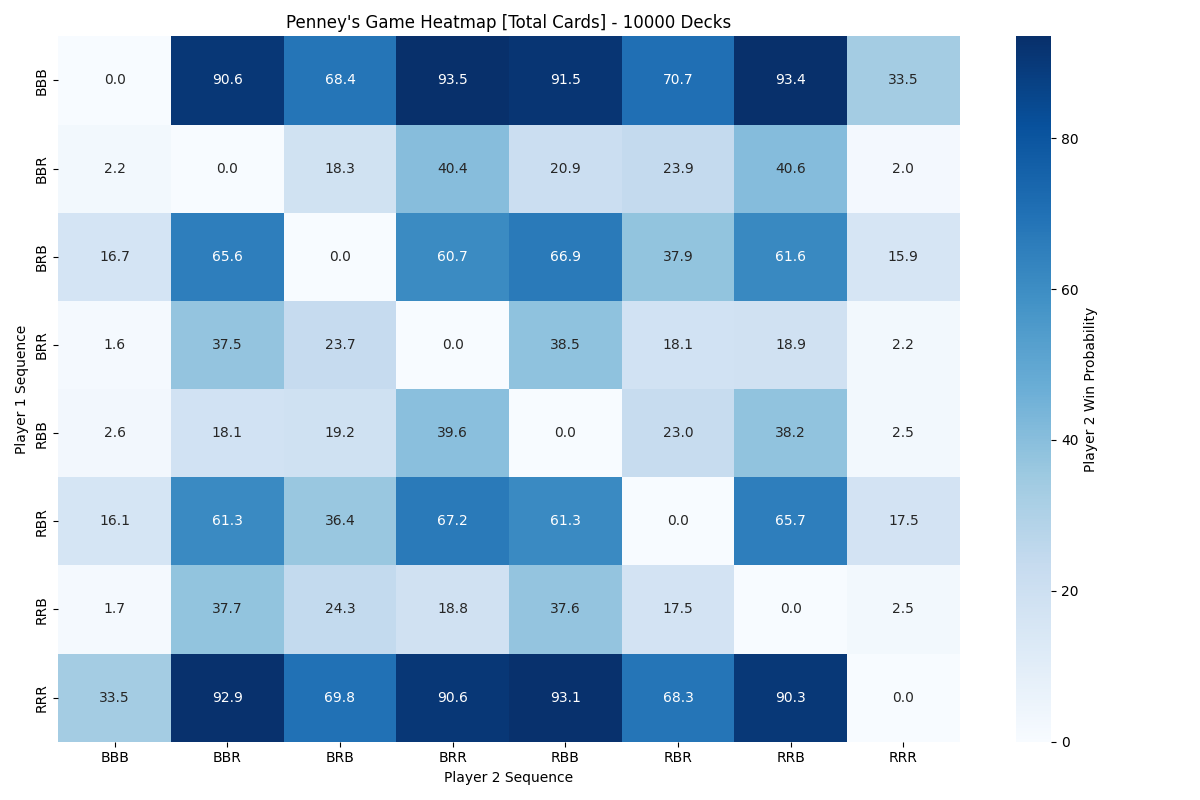
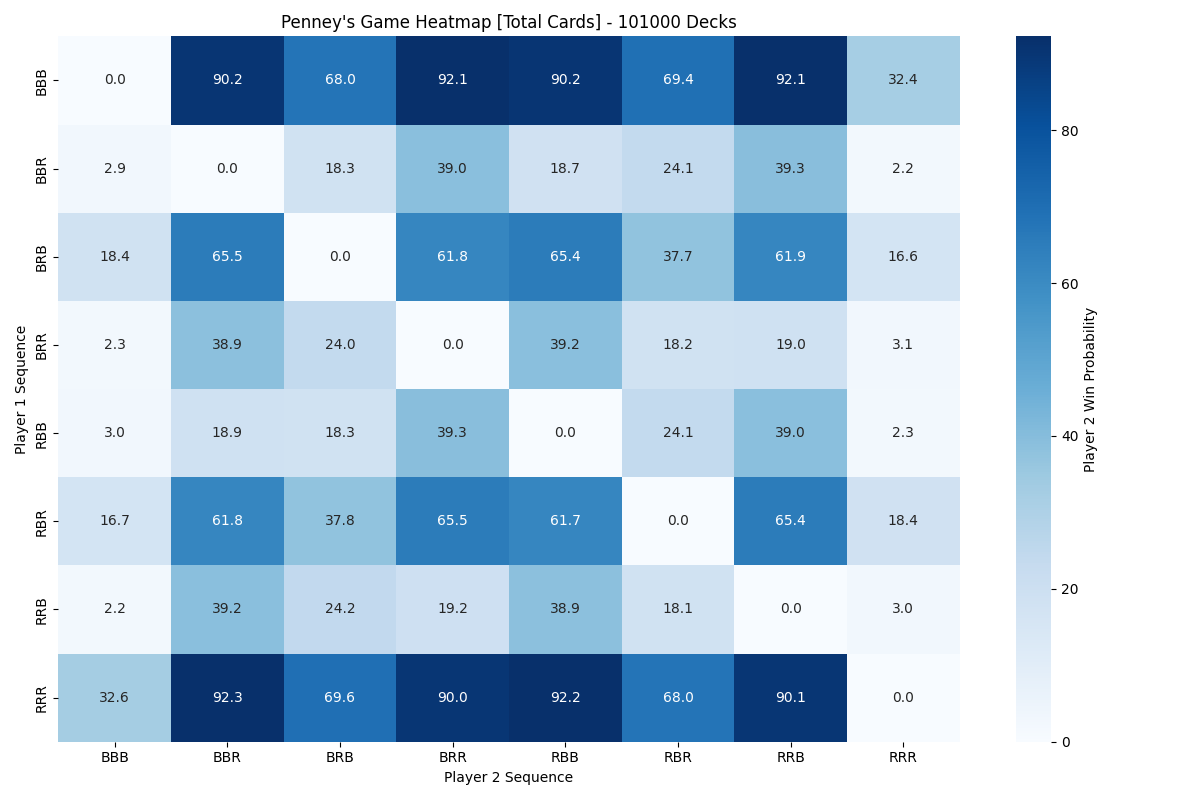
update

diff --git a/src/processing.py b/src/processing.py
@@ -1,13 +1,13 @@
 import numpy as np
-from datagen import get_decks 
+from datagen import get_decks
 
-HALF_DECK_SIZE = 26  
+HALF_DECK_SIZE = 26
 
 def sequence_to_binary(sequence: str) -> np.ndarray:
     """
     Converts the sequence into binary 0's & 1's
 
-    Args: 
+    Args:
         sequence: The sequence containing 'B' & 'R'
 
     Returns:
@@ -18,92 +18,93 @@ def sequence_to_binary(sequence: str) -> np.ndarray:
 def find_sequence(deck: np.ndarray, sequence: np.ndarray) -> int:
     """
     Find the sequence's first appearance in the deck
-    
+
     Args:
         deck: The shuffled deck of cards
         seq: The sequence we're looking for
-    
+
     Returns:
         The position of i, where the sequence starts in the deck
     """
     for i in range(len(deck) - len(sequence) + 1):
         if np.array_equal(deck[i:i+len(sequence)], sequence):
             return i
-    return float('NaN')   # If sequence is not found
+    return len(deck)   # If sequence is not found, return the end of the deck
 
 def count_occurrences(deck: np.ndarray, sequence: np.ndarray) -> int:
     """
     Finds the number of times a sequence occurs in the shuffled deck (non-overlapping)
-    
+
     Args:
         deck: The shuffled deck of cards
         seq: The sequence we're looking for
-    
+
     Returns:
-        The total count of sequence occurrences 
+        The total count of sequence occurrences
     """
     count = 0
     i = 0
     while i <= len(deck) - len(sequence):
         if np.array_equal(deck[i:i+len(sequence)], sequence): # Checking if the sequence is found
             count += 1
-            i += len(sequence) 
+            i += len(sequence)
         else:
             i += 1
     return count
 
-def penneys_game(p1_sequence: str, p2_sequence: str, num_trials: int = 100000, n_decks: int = 1) -> dict:
+def penneys_game(p1_sequence: str, p2_sequence: str, n_decks: int) -> dict:
     """
-    Player 1 & player 2 choose sequences of 3 cards that are compared based on tricks/totals scoring.
-    
+    Player 1 & player 2 choose sequences of 3 cards that are compared based on tricks/totals scoring
+
     Args:
         p1_sequence: First player's sequence
         p2_sequence: Second player's sequence
-        num_trials: The number of simulations
         n_decks: The number of shuffled decks
-    
+
     Returns:
-        A dictionary with player 2's wins/losses/draws
+        A dictionary with player 2's win/loss/draw probabilities
     """
+
     # First convert the sequences to binary
     p1_seq_binary = sequence_to_binary(p1_sequence)
     p2_seq_binary = sequence_to_binary(p2_sequence)
-    
+
     p1_wins_trick, p2_wins_trick, draws_trick = 0, 0, 0
     p1_wins_totals, p2_wins_totals, draws_totals = 0, 0, 0
-    
-    for i in range(num_trials):
+
+    for i in range(n_decks): 
         # Generate shuffled decks for each trial
-        decks = get_decks(n_decks=n_decks, seed=i) 
-        
+        decks = get_decks(n_decks=1, seed=i)
+
         # The first deck from the shuffled decks
         deck = decks[0]
-        
+
         # Find the positions of the sequences for tricks-based scoring
         p1_pos = find_sequence(deck, p1_seq_binary)
         p2_pos = find_sequence(deck, p2_seq_binary)
-        
-        # Determine the results
+
+        # Determine the results for tricks
         if p1_pos < p2_pos:
             p1_wins_trick += 1
         elif p2_pos < p1_pos:
             p2_wins_trick += 1
         else:
             draws_trick += 1
-        
+
         # Count the occurrences of each player's sequence for totals-based scoring
         p1_occurrences = count_occurrences(deck, p1_seq_binary)
         p2_occurrences = count_occurrences(deck, p2_seq_binary)
-        
-        # Results
+
+        # Results for totals
         if p1_occurrences > p2_occurrences:
             p1_wins_totals += 1
         elif p2_occurrences > p1_occurrences:
             p2_wins_totals += 1
         else:
             draws_totals += 1
-    
-    total_trials = num_trials
+
+    total_trials = n_decks 
+
     return {
         'tricks': {
             'win': p2_wins_trick / total_trials,
@@ -121,16 +122,15 @@ def penneys_game(p1_sequence: str, p2_sequence: str, num_trials: int = 100000, n
         }
     }
 
-def calculate_win_probabilities(num_trials: int = 100000, n_decks: int = 1) -> dict:
+def calculate_win_probabilities(n_decks: int) -> dict:
     """
     Calculates player 2's probabilities of winning/lossing/drawing
 
     Args:
-        num_trials: The number of simulations
         n_decks: The number of shuffled decks
 
     Returns:
-        A dictionary of win/loss/draw probabilities for each pair
+        A dictionary of win/loss/draw probabilities for each pair of sequences
     """
     # Define all possible sequences of length 3 ('B' or 'R')
     sequence_list = ['BBB', 'BBR', 'BRB', 'BRR', 'RBB', 'RBR', 'RRB', 'RRR']
@@ -139,14 +139,13 @@ def calculate_win_probabilities(num_trials: int = 100000, n_decks: int = 1) -> d
     probabilities = {}
     for p1_seq in sequence_list:
         for p2_seq in sequence_list:
-            probabilities[(p1_seq, p2_seq)] = penneys_game(p1_seq, p2_seq, num_trials=num_trials, n_decks=n_decks)
+            probabilities[(p1_seq, p2_seq)] = penneys_game(p1_seq, p2_seq, n_decks=n_decks)
 
     return probabilities
 
 if __name__ == '__main__':
-    num_trials = 1000  # Number of simulations
-    n_decks = 1 # One standard 52-card deck
-    results = calculate_win_probabilities(num_trials, n_decks)
+    n_decks = 100_000  # The game will be played 100,000 times
+    results = calculate_win_probabilities(n_decks)
 
     for (p1_seq, p2_seq), probs in results.items():
         print(f"Player 1 {p1_seq} vs Player 2 {p2_seq}:")

diff --git a/src/visualization.py b/src/visualization.py
@@ -1,12 +1,12 @@
 import matplotlib.pyplot as plt
 import seaborn as sns
 import numpy as np
-from datagen import store_decks
+from datagen import augmenting_decks
 from processing import calculate_win_probabilities
 
 def all_possible_sequences(length: int) -> list:
     """
-    Generates all possibles sequences of length 3 (total of 8)
+    Generates all possible sequences of length 3 (total of 8)
 
     Args:
         length (int): The length of the sequence
@@ -14,7 +14,6 @@ def all_possible_sequences(length: int) -> list:
     Returns: 
         A list of all possible sequences
     """
-    # All possible sequences, 2^3 = 8
     return [list(format(i, f'0{length}b')) for i in range(2**length)]
 
 def create_heatmaps(heatmap_total, heatmap_tricks, output_file, n_decks) -> None:
@@ -24,7 +23,6 @@ def create_heatmaps(heatmap_total, heatmap_tricks, output_file, n_decks) -> None
     Args:
         heatmap_total (np.ndarray): The heatmap for total cards win probabilities
         heatmap_tricks (np.ndarray): The heatmap for tricks win probabilities
-        all_seq (list): All possible sequences
         output_file (str): The name of the output file
         n_decks (int): The number of decks
 
@@ -32,8 +30,9 @@ def create_heatmaps(heatmap_total, heatmap_tricks, output_file, n_decks) -> None
         None
     """
     ax_labels = ['BBB', 'BBR', 'BRB', 'BRR', 'RBB', 'RBR', 'RRB', 'RRR']
+    
     plt.figure(figsize=(12, 8))
-    sns.heatmap(heatmap_total*100, annot=True, fmt=".1f", cmap="Blues",
+    sns.heatmap(heatmap_total * 100, annot=True, fmt=".1f", cmap="Blues",
                 xticklabels=ax_labels, yticklabels=ax_labels,
                 cbar_kws={'label': 'Player 2 Win Probability'})
     plt.title(f"Penney's Game Heatmap [Total Cards] - {n_decks} Decks")
@@ -45,7 +44,7 @@ def create_heatmaps(heatmap_total, heatmap_tricks, output_file, n_decks) -> None
     plt.clf()
 
     plt.figure(figsize=(12, 8))
-    sns.heatmap(heatmap_tricks*100, annot=True, fmt=".1f", cmap="Blues",
+    sns.heatmap(heatmap_tricks * 100, annot=True, fmt=".1f", cmap="Blues",
                 xticklabels=ax_labels, yticklabels=ax_labels,
                 cbar_kws={'label': 'Player 2 Win Probability'})
     plt.title(f"Penney's Game Heatmap [Tricks] - {n_decks} Decks")
@@ -56,30 +55,34 @@ def create_heatmaps(heatmap_total, heatmap_tricks, output_file, n_decks) -> None
     print(f"Saved tricks heatmap as tricks_{output_file}.png")
     plt.clf()
 
-def main() -> None:
-    seed = 42
-    n_decks = 10000 
-    augment_decks = 0  # Number of additional decks to add if desired
-    augment = False 
+def fill_heatmaps(seed: int, n_decks: int, augment_decks: int, output_file: str = 'penney_heatmaps') -> None:
+    """
+    Generate the heatmaps for Penney's game
 
-    # Generate and/or augment decks
-    decks, seed = store_decks(n_decks + augment_decks, seed, augment=augment)  # This will augment the decks
-    output_file = 'penney_heatmaps'
+    Args:
+        seed (int): The seed for generating decks
+        n_decks (int): The number of decks
+        augment_decks (int): The number of additional decks to augment
+        output_file (str): The base name for the file containing the heatmaps
+
+    Returns:
+        None
+    """
+    # Augment decks using datagen.py
+    augment = augment_decks > 0
+    augmenting_decks(n_decks=n_decks, augment_decks=augment_decks, seed=seed, augment=augment)
     seq_length = 3
-
     all_sequences = all_possible_sequences(seq_length)
 
     # Initialize the heatmaps with 2D arrays
     heatmap_total = np.zeros((len(all_sequences), len(all_sequences)))  # Total cards heatmap
     heatmap_tricks = np.zeros((len(all_sequences), len(all_sequences)))  # Tricks heatmap
 
-    results = calculate_win_probabilities(num_trials=1000, n_decks=n_decks + augment_decks)
+    results = calculate_win_probabilities(n_decks=n_decks + augment_decks)
 
     # Populate the heatmaps
     for i, seq1 in enumerate(all_sequences):
         for j, seq2 in enumerate(all_sequences):
-
-            # Convert binary sequences to 'B' and 'R'
             p1_seq = ''.join(['B' if binary == '0' else 'R' for binary in seq1])
             p2_seq = ''.join(['B' if binary == '0' else 'R' for binary in seq2])
             
@@ -101,6 +104,3 @@ def main() -> None:
 
     # Create and save the heatmaps
     create_heatmaps(heatmap_total, heatmap_tricks, output_file, n_decks + augment_decks)
-
-if __name__ == "__main__":
-    main()

diff --git a/src/datagen.py b/src/datagen.py
@@ -41,28 +41,45 @@ def store_decks(n_decks: int, seed: int, filename: str = 'penneydecks.npy', augm
         where each row is a shuffled deck
         seed (int): The seed used to generate the shuffled decks
     """
-   # Joining the paths of filename & PATH_DATA directory
     decks_file = os.path.join(PATH_DATA, filename)
     os.makedirs(PATH_DATA, exist_ok=True)
 
-    # Check if penneydecks.npy exists
     if os.path.exists(decks_file):
-        data = np.load(decks_file, allow_pickle = True).item()
-        # Return the decks and seed from file
+        data = np.load(decks_file, allow_pickle=True).item()
         existing_decks = data['decks']
         current_seed = data['seed']
     
-        if augment: # If choosing to augment the decks
-            additional_decks = get_decks(n_decks, seed = current_seed)
+        if augment:
+            additional_decks = get_decks(n_decks, seed=current_seed)
             updated_decks = np.concatenate((existing_decks, additional_decks), axis=0)
             data['decks'] = updated_decks 
-            np.save(decks_file, data)  # Save the updated decks
+            np.save(decks_file, data)
             return updated_decks, current_seed
         else:
             return existing_decks, current_seed
     else:
-        # If it doesn't exist, create the decks & seed using get_decks
         decks = get_decks(n_decks, seed=seed)
         data = {'decks': decks, 'seed': seed}
         np.save(decks_file, data)
         return decks, seed
+
+def augmenting_decks(n_decks: int, augment_decks: int, seed: int, augment: bool) -> tuple:
+    """
+    Handles the logic for augmenting decks if required, moving logic from visualization.py
+    to datagen.py.
+
+    Args:
+        n_decks (int): The number of decks 
+        augment_decks (int): The number of additional decks 
+        seed (int): The random seed
+        augment (bool): Whether augementing 
+
+    Returns:
+        decks (np.ndarray): The augmented decks
+        seed (int): The seed used
+    """
+    if augment and augment_decks > 0:
+        decks, seed = store_decks(n_decks + augment_decks, seed, augment=True)
+    else:
+        decks, seed = store_decks(n_decks, seed, augment=False)
+    return decks, seed

diff --git a/README.md b/README.md
@@ -1,16 +1,21 @@
 # Project Penney: Overview
 
-Penney's Game, named after Walter Penney, involves two players choosing a sequence of three cards - either black or red. There are two methods of scoring, one based on tricks (whoever's sequence appears first) and the other based on total cards (total number of appearences). 
-
-The probabilities of player 2 winnning for all 56 possible games are presented in two heatmaps. To augment the existing data, the 'augment' boolean can be set to True and 'augment_decks' can be assigned a quantity.
+Penney's Game, named after Walter Penney, involves two players choosing a sequence of three cards - either black or red. There are two methods of scoring, one based on tricks (whoever's sequence appears first) and the other based on total cards (total number of appearences). The probabilities of player 2 winnning for all 64 possible games are presented in two heatmaps. 
 
 The goal of this project is to compute the probability of winning/losing/drawing for player 2 while also visualizing these results in a clear and effective manner. Player 2 has an advantage due to their ability to know player 1's sequence before choosing their own. With the information in the heatmaps, player 2 can achieve the highest probability of winning Penney's Game.
 
+
 # Quick Start Guide:
 
-To view the probabilities and heatmaps, no setup is necessary. If desired, the number of trials and decks can be altered to easily debug/test things. Run the files in the following order to prevent NameError or ImportError. Visualization.py creates two pngs called totals_penney_game and tricks_penney_game. For reference, the heatmaps produced with 10,000 decks and no augmentation are also included in the main.
+To view the probabilities and heatmaps, no setup is necessary. However, uv and the required libraries must be installed for the code to work. To augment the existing data, the 'augment' boolean can be set to True and 'augment_decks' can be assigned a quantity. The number of decks can be altered to easily debug/test things. Run the files in the following order to prevent NameError or ImportError. Visualization.py creates two pngs called totals_penney_game and tricks_penney_game. For reference, the heatmaps produced with 100,000 decks and an augmentation of 1,000 decks are also included in the GitHub main.
 
-Files included:
+First, clone the repository and then run the following code in a new module with the desired number of decks/augmentation:
+
+from visualization import fill_heatmaps
+fill_heatmaps(seed=42, n_decks=100000, augment_decks=1000)
+
+
+# Files Included:
 
 `src/`
 
